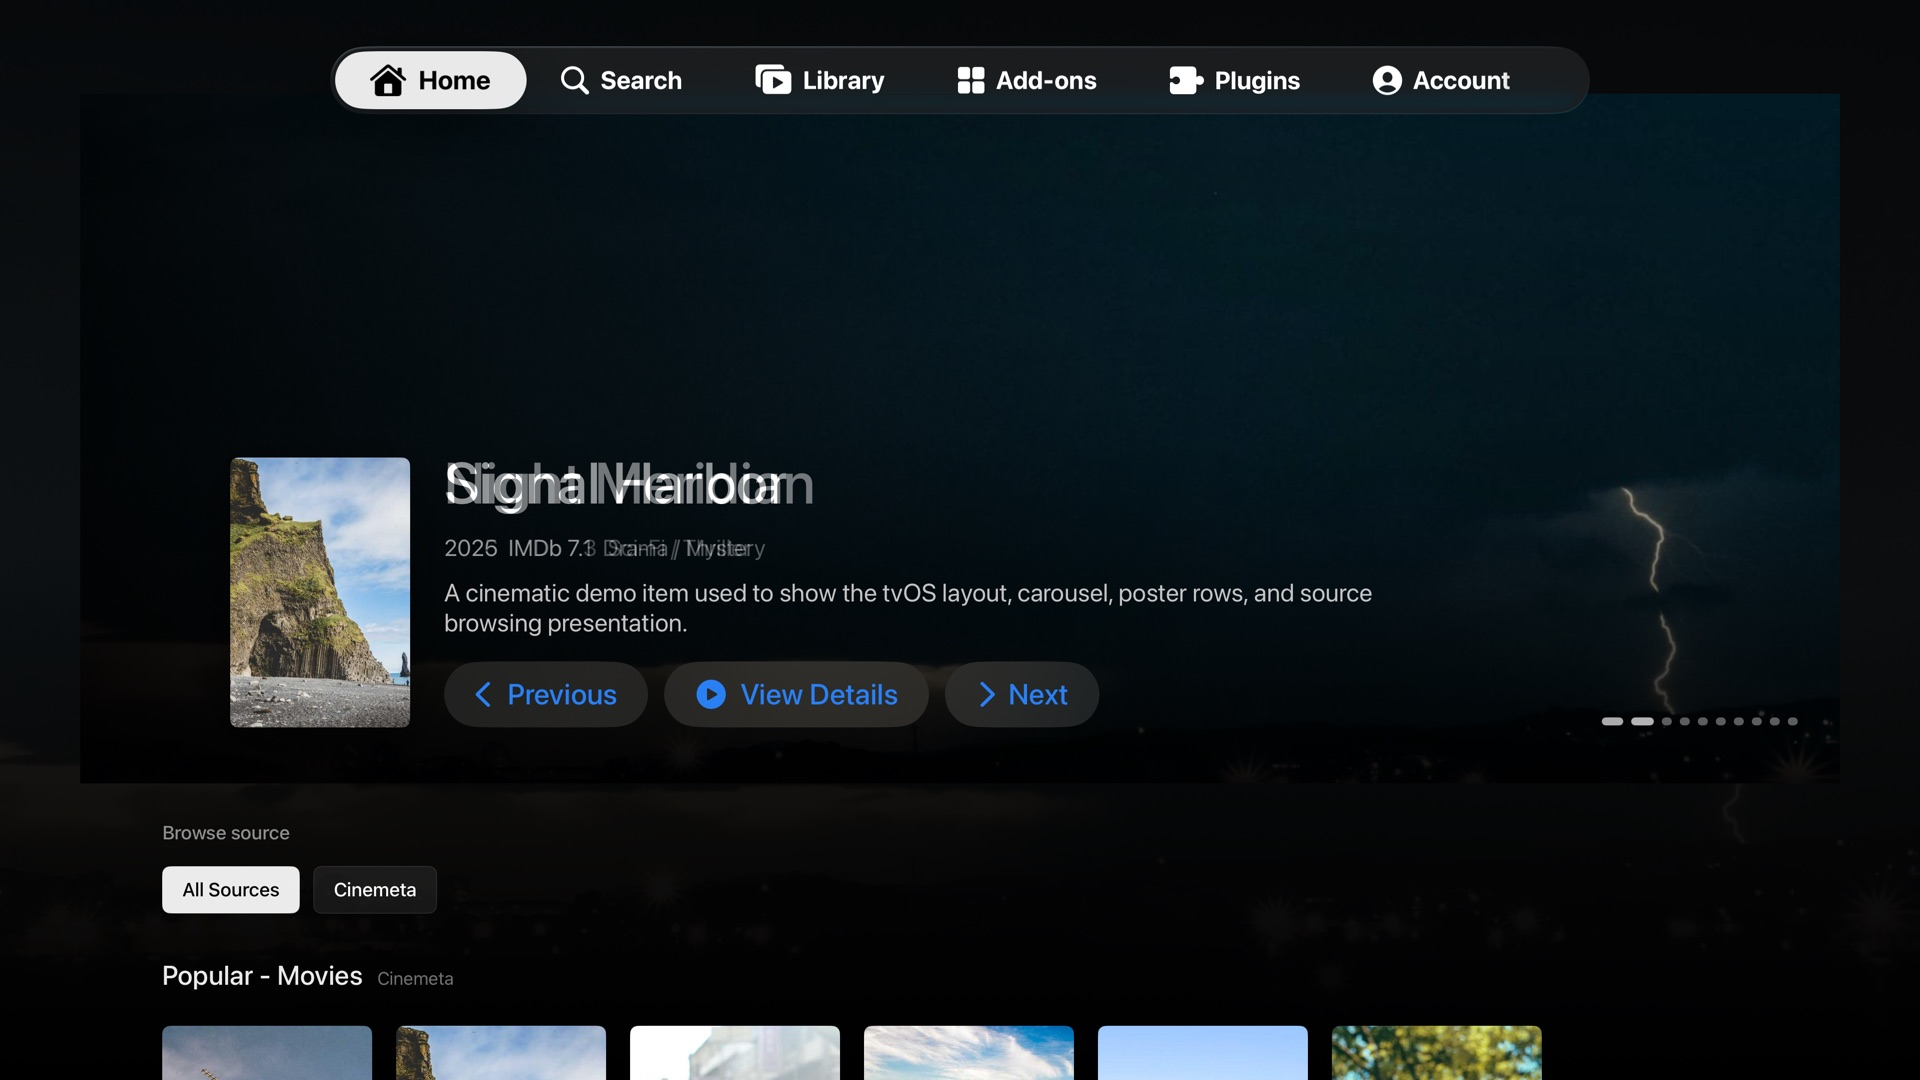
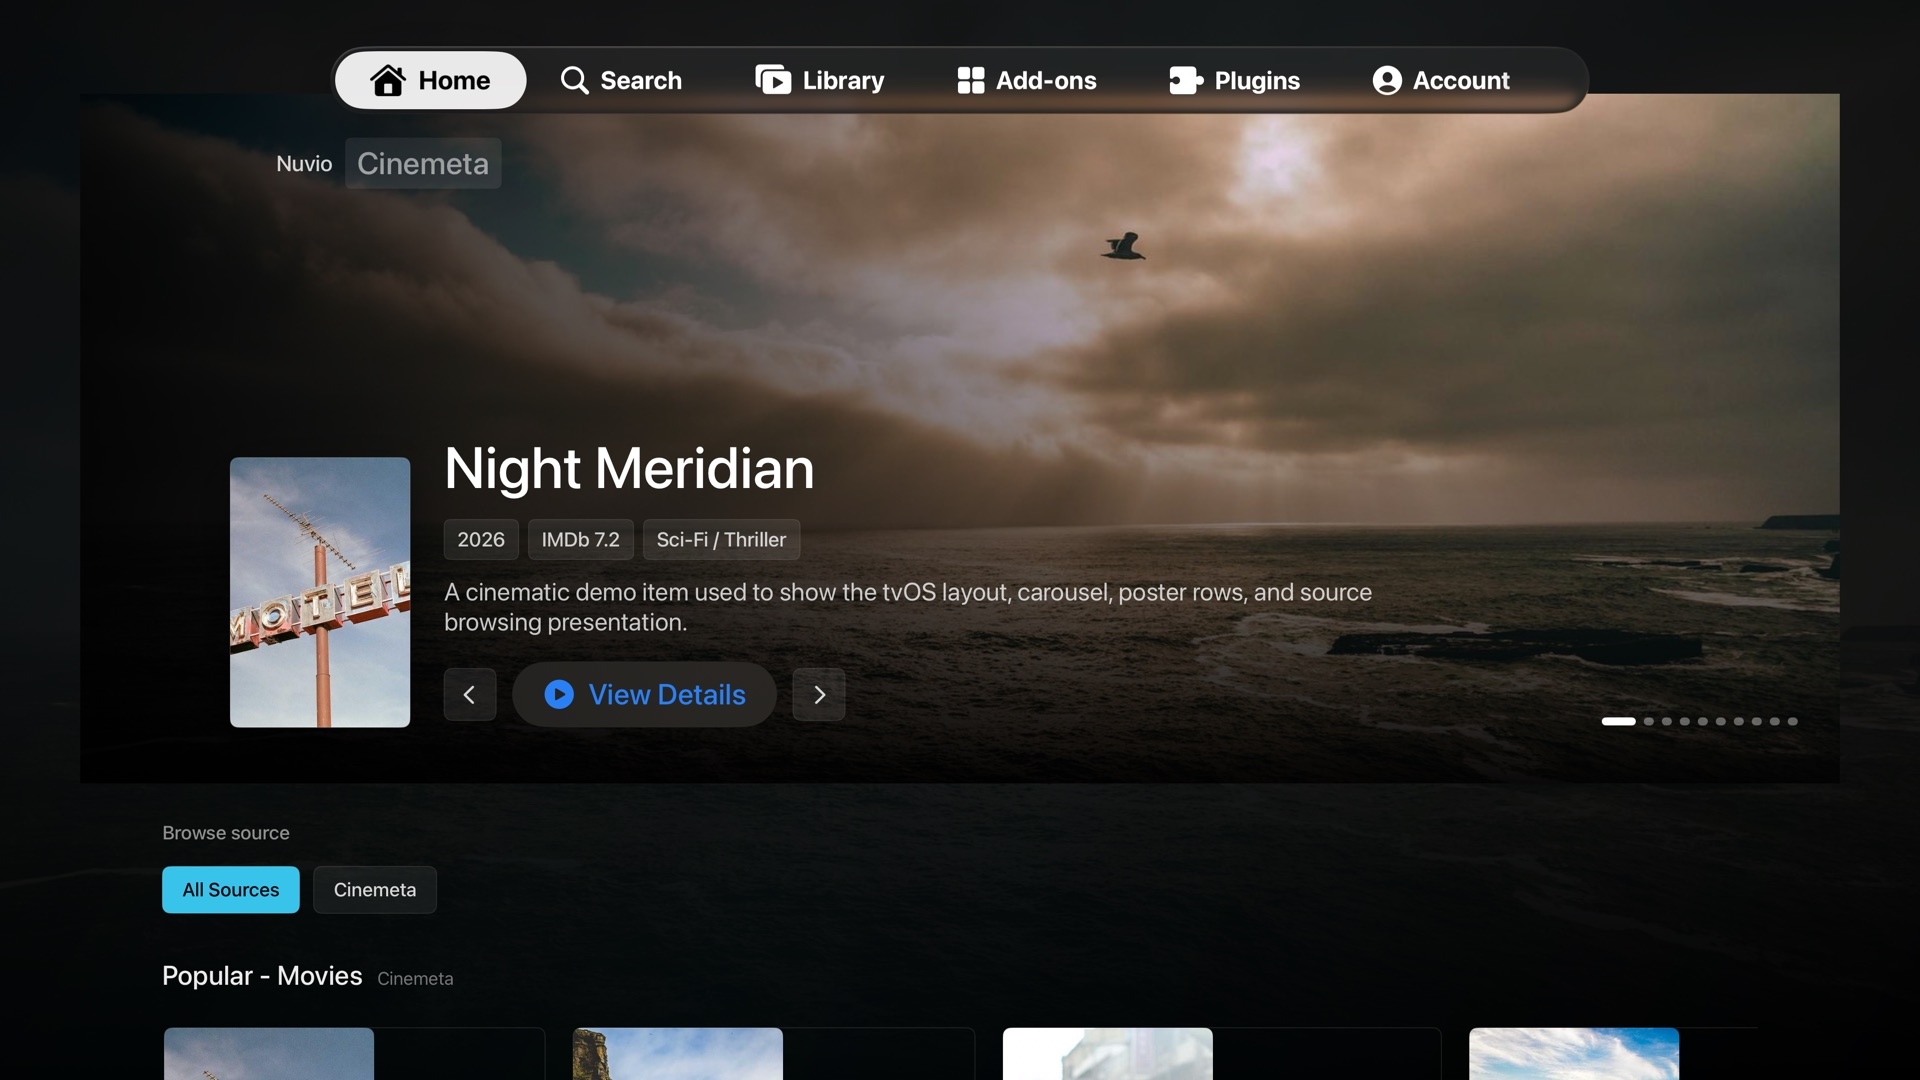
style: polish tvOS browsing interface

diff --git a/NuvioTV/Sources/FeatureViews.swift b/NuvioTV/Sources/FeatureViews.swift
@@ -456,22 +456,54 @@ private struct HomeHero: View {
                 endPoint: .trailing
             )
 
+            VStack {
+                HStack(spacing: 12) {
+                    Image("app_logo_mark")
+                        .resizable()
+                        .scaledToFit()
+                        .frame(width: 34, height: 34)
+                        .opacity(0.88)
+
+                    Text("Nuvio")
+                        .font(.system(size: 22, weight: .medium))
+                        .foregroundStyle(.white.opacity(0.82))
+
+                    Text(item.addonName)
+                        .font(.callout.weight(.medium))
+                        .foregroundStyle(.white.opacity(0.58))
+                        .padding(.horizontal, 12)
+                        .padding(.vertical, 7)
+                        .background(.white.opacity(0.08), in: RoundedRectangle(cornerRadius: 6))
+                }
+                .frame(maxWidth: .infinity, alignment: .leading)
+                .padding(.horizontal, 150)
+                .padding(.top, 44)
+
+                Spacer()
+            }
+
             HStack(alignment: .bottom, spacing: 34) {
                 RemotePoster(url: item.posterURL)
                     .frame(width: 180, height: 270)
                     .clipShape(RoundedRectangle(cornerRadius: 8))
+                    .overlay(
+                        RoundedRectangle(cornerRadius: 8)
+                            .stroke(.white.opacity(0.16), lineWidth: 1)
+                    )
                     .shadow(color: .black.opacity(0.55), radius: 24, x: 0, y: 14)
 
-                VStack(alignment: .leading, spacing: 16) {
+                VStack(alignment: .leading, spacing: 17) {
                     Text(item.name)
                         .font(.system(size: 58, weight: .medium))
                         .lineLimit(2)
                         .frame(maxWidth: 980, alignment: .leading)
 
-                    if !item.subtitle.isEmpty {
-                        Text(item.subtitle)
-                            .font(.system(size: 23, weight: .regular))
-                            .foregroundStyle(.white.opacity(0.58))
+                    if !heroBadges.isEmpty {
+                        HStack(spacing: 10) {
+                            ForEach(heroBadges, id: \.self) { badge in
+                                HeroBadge(title: badge)
+                            }
+                        }
                     }
 
                     Text(item.description ?? "Open details to resolve streams from your Nuvio sources.")
@@ -487,7 +519,8 @@ private struct HomeHero: View {
                             } label: {
                                 Label("Previous", systemImage: "chevron.left")
                             }
-                            .buttonStyle(.bordered)
+                            .labelStyle(.iconOnly)
+                            .buttonStyle(GlassIconButtonStyle())
                         }
 
                         Button {
@@ -503,7 +536,8 @@ private struct HomeHero: View {
                             } label: {
                                 Label("Next", systemImage: "chevron.right")
                             }
-                            .buttonStyle(.bordered)
+                            .labelStyle(.iconOnly)
+                            .buttonStyle(GlassIconButtonStyle())
                         }
                     }
                     .padding(.top, 8)
@@ -528,6 +562,30 @@ private struct HomeHero: View {
         .frame(maxWidth: .infinity)
         .clipped()
         .padding(.horizontal, -82)
+    }
+
+    private var heroBadges: [String] {
+        [item.releaseInfo, item.imdbRating.map { "IMDb \($0)" }, item.genres?.prefix(3).joined(separator: " / ")]
+            .compactMap { $0 }
+            .filter { !$0.isEmpty }
+    }
+}
+
+private struct HeroBadge: View {
+    let title: String
+
+    var body: some View {
+        Text(title)
+            .font(.system(size: 20, weight: .medium))
+            .foregroundStyle(.white.opacity(0.78))
+            .lineLimit(1)
+            .padding(.horizontal, 13)
+            .padding(.vertical, 8)
+            .background(.white.opacity(0.075), in: RoundedRectangle(cornerRadius: 6))
+            .overlay(
+                RoundedRectangle(cornerRadius: 6)
+                    .stroke(.white.opacity(0.10), lineWidth: 1)
+            )
     }
 }
 
@@ -565,9 +623,33 @@ private struct CatalogPosterButton: View {
     var body: some View {
         Button(action: action) {
             VStack(alignment: .leading, spacing: 12) {
-                RemotePoster(url: item.posterURL)
-                    .frame(width: 210, height: 315)
+                ZStack(alignment: .bottomLeading) {
+                    RemotePoster(url: item.posterURL)
+                        .frame(width: 210, height: 315)
+                        .clipShape(RoundedRectangle(cornerRadius: 8))
+
+                    LinearGradient(
+                        colors: [.clear, .black.opacity(0.72)],
+                        startPoint: .center,
+                        endPoint: .bottom
+                    )
                     .clipShape(RoundedRectangle(cornerRadius: 8))
+
+                    if !item.subtitle.isEmpty {
+                        Text(item.subtitle)
+                            .font(.caption.weight(.medium))
+                            .foregroundStyle(.white.opacity(0.74))
+                            .lineLimit(1)
+                            .padding(.horizontal, 10)
+                            .padding(.vertical, 7)
+                            .background(.black.opacity(0.48), in: RoundedRectangle(cornerRadius: 6))
+                            .padding(10)
+                    }
+                }
+                .overlay(
+                    RoundedRectangle(cornerRadius: 8)
+                        .stroke(.white.opacity(0.10), lineWidth: 1)
+                )
 
                 Text(item.name)
                     .font(.system(size: 22, weight: .medium))
@@ -844,10 +926,15 @@ private struct StreamButton: View {
         Button {
             store.play(stream, for: item)
         } label: {
-            HStack(spacing: 18) {
-                Image(systemName: stream.isPlayableOnTV ? "play.circle.fill" : "exclamationmark.triangle.fill")
-                    .font(.system(size: 36, weight: .semibold))
-                    .foregroundStyle(stream.isPlayableOnTV ? .green : .yellow)
+            HStack(spacing: 20) {
+                ZStack {
+                    RoundedRectangle(cornerRadius: 8)
+                        .fill(stream.isPlayableOnTV ? Color.cyan.opacity(0.14) : Color.yellow.opacity(0.14))
+                    Image(systemName: stream.isPlayableOnTV ? "play.fill" : "exclamationmark.triangle.fill")
+                        .font(.system(size: 23, weight: .medium))
+                        .foregroundStyle(stream.isPlayableOnTV ? Color.cyan.opacity(0.92) : Color.yellow.opacity(0.92))
+                }
+                .frame(width: 58, height: 58)
 
                 VStack(alignment: .leading, spacing: 6) {
                     Text(stream.displayTitle)
@@ -862,9 +949,10 @@ private struct StreamButton: View {
                             ForEach(stream.metadataBadges, id: \.self) { badge in
                                 Text(badge)
                                     .font(.caption.weight(.medium))
+                                    .foregroundStyle(.white.opacity(0.78))
                                     .padding(.horizontal, 10)
                                     .padding(.vertical, 5)
-                                    .background(.white.opacity(0.12), in: RoundedRectangle(cornerRadius: 6))
+                                    .background(streamBadgeTint(for: badge), in: RoundedRectangle(cornerRadius: 6))
                             }
                         }
                     }
@@ -876,10 +964,31 @@ private struct StreamButton: View {
                     }
                 }
                 Spacer()
+
+                Image(systemName: stream.preferredPlaybackEngine == .vlc ? "play.rectangle.on.rectangle.fill" : "appletv.fill")
+                    .font(.system(size: 22, weight: .medium))
+                    .foregroundStyle(.white.opacity(0.42))
             }
             .frame(maxWidth: 1180, alignment: .leading)
         }
         .buttonStyle(MediaPanelButtonStyle())
+    }
+
+    private func streamBadgeTint(for badge: String) -> Color {
+        let lowercased = badge.lowercased()
+        if lowercased.contains("dolby") || lowercased.contains("hdr") || lowercased.contains("4k") || lowercased.contains("2160") {
+            return Color.cyan.opacity(0.16)
+        }
+        if lowercased.contains("size") {
+            return Color.indigo.opacity(0.18)
+        }
+        if lowercased.contains("seed") {
+            return Color.green.opacity(0.16)
+        }
+        if lowercased.contains("need") || lowercased.contains("no direct") {
+            return Color.yellow.opacity(0.14)
+        }
+        return Color.white.opacity(0.10)
     }
 }
 
@@ -1046,6 +1155,13 @@ private struct BackdropLayer: View {
                 endPoint: .bottom
             )
             .ignoresSafeArea()
+
+            LinearGradient(
+                colors: [.clear, Color.cyan.opacity(0.035), .clear],
+                startPoint: .topLeading,
+                endPoint: .bottomTrailing
+            )
+            .ignoresSafeArea()
         }
     }
 }
@@ -1086,12 +1202,15 @@ private struct PosterButtonStyle: ButtonStyle {
         var body: some View {
             label
                 .foregroundStyle(.white)
+                .padding(2)
+                .background(isFocused ? .white.opacity(0.035) : .clear, in: RoundedRectangle(cornerRadius: 8))
                 .overlay(
                     RoundedRectangle(cornerRadius: 10)
-                        .stroke(isFocused ? Color.white.opacity(0.86) : .clear, lineWidth: 4)
-                        .padding(-8)
+                        .stroke(isFocused ? Color.cyan.opacity(0.88) : .clear, lineWidth: 3)
+                        .padding(-7)
                 )
-                .shadow(color: isFocused ? .black.opacity(0.50) : .clear, radius: 16, x: 0, y: 10)
+                .shadow(color: isFocused ? Color.cyan.opacity(0.22) : .clear, radius: 22, x: 0, y: 0)
+                .shadow(color: isFocused ? .black.opacity(0.54) : .clear, radius: 18, x: 0, y: 12)
                 .scaleEffect(isPressed ? 0.97 : (isFocused ? 1.055 : 1))
                 .animation(.easeOut(duration: 0.14), value: isFocused)
         }
@@ -1139,11 +1258,12 @@ private struct MediaPanelButtonStyle: ButtonStyle {
             label
                 .foregroundStyle(.white)
                 .padding(24)
-                .background(.white.opacity(isPressed || isFocused ? 0.135 : 0.055), in: RoundedRectangle(cornerRadius: 8))
+                .background(.white.opacity(isPressed || isFocused ? 0.125 : 0.045), in: RoundedRectangle(cornerRadius: 8))
                 .overlay(
                     RoundedRectangle(cornerRadius: 8)
-                        .stroke(isFocused ? Color.white.opacity(0.72) : .white.opacity(0.08), lineWidth: isFocused ? 2 : 1)
+                        .stroke(isFocused ? Color.cyan.opacity(0.76) : .white.opacity(0.08), lineWidth: isFocused ? 2 : 1)
                 )
+                .shadow(color: isFocused ? Color.cyan.opacity(0.16) : .clear, radius: 18, x: 0, y: 0)
                 .scaleEffect(isPressed ? 0.98 : (isFocused ? 1.02 : 1))
                 .animation(.easeOut(duration: 0.14), value: isFocused)
         }
@@ -1165,13 +1285,41 @@ private struct SourceChipButtonStyle: ButtonStyle {
 
         var body: some View {
             label
-                .foregroundStyle(isSelected || isFocused ? .black : .white)
-                .background(isSelected || isFocused ? .white.opacity(0.92) : .white.opacity(0.075), in: RoundedRectangle(cornerRadius: 8))
+                .foregroundStyle(isSelected || isFocused ? .black : .white.opacity(0.82))
+                .background(isSelected || isFocused ? Color.cyan.opacity(0.92) : .white.opacity(0.065), in: RoundedRectangle(cornerRadius: 8))
                 .overlay(
                     RoundedRectangle(cornerRadius: 8)
                         .stroke(isFocused ? Color.white.opacity(0.8) : .white.opacity(0.10), lineWidth: isFocused ? 2 : 1)
                 )
+                .shadow(color: isFocused ? Color.cyan.opacity(0.18) : .clear, radius: 16, x: 0, y: 0)
                 .scaleEffect(isPressed ? 0.97 : (isFocused ? 1.035 : 1))
+                .animation(.easeOut(duration: 0.14), value: isFocused)
+        }
+    }
+}
+
+private struct GlassIconButtonStyle: ButtonStyle {
+    func makeBody(configuration: Configuration) -> some View {
+        FocusedGlassIcon(label: configuration.label, isPressed: configuration.isPressed)
+    }
+
+    private struct FocusedGlassIcon<Label: View>: View {
+        @Environment(\.isFocused) private var isFocused
+        let label: Label
+        let isPressed: Bool
+
+        var body: some View {
+            label
+                .font(.system(size: 21, weight: .medium))
+                .foregroundStyle(isFocused ? .black : .white.opacity(0.82))
+                .frame(width: 52, height: 52)
+                .background(isFocused ? Color.cyan.opacity(0.94) : .white.opacity(0.08), in: RoundedRectangle(cornerRadius: 8))
+                .overlay(
+                    RoundedRectangle(cornerRadius: 8)
+                        .stroke(isFocused ? Color.white.opacity(0.78) : .white.opacity(0.10), lineWidth: 1)
+                )
+                .shadow(color: isFocused ? Color.cyan.opacity(0.20) : .clear, radius: 18, x: 0, y: 0)
+                .scaleEffect(isPressed ? 0.96 : (isFocused ? 1.04 : 1))
                 .animation(.easeOut(duration: 0.14), value: isFocused)
         }
     }